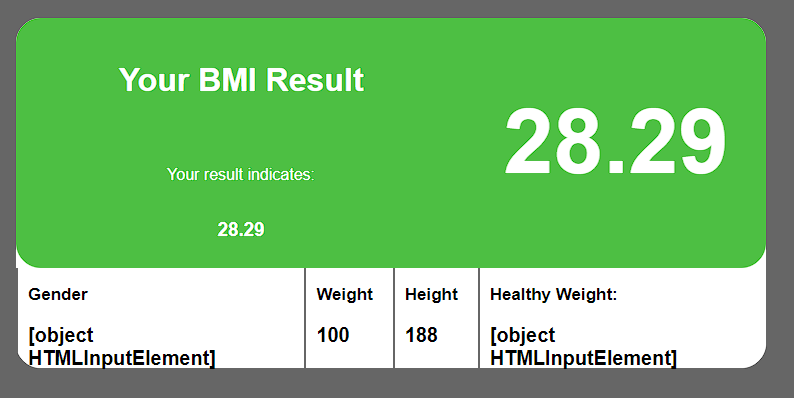
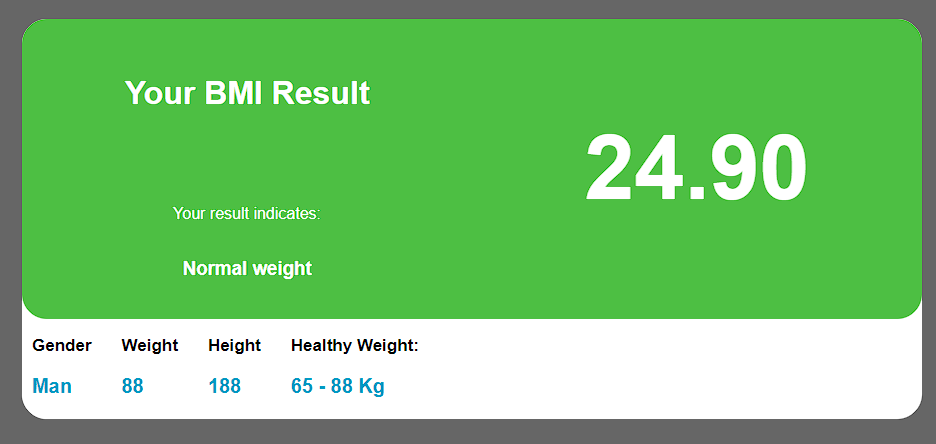
...

diff --git a/project.2 - BMI-calculator/calculatorBMI.js b/project.2 - BMI-calculator/calculatorBMI.js
@@ -52,7 +52,7 @@ function calcBMI(age, sex, weight, height) {
 
     console.log("------------------------------------------")
 
-    makeDiv(age, sex, weight, height, BMI)
+    makeDiv(age, sex, weight, height, BMI);
 
     console.log("------------------------------------------")
 }
@@ -74,38 +74,36 @@ function makeDiv(age, sex, weight, height, BMI) {
     var divTop2 = document.createElement("div");
     divTop2.id = "div_BMI_top_2";
 
-
     let result;
 
     switch (true) {
         case BMI < 16:
-            result = "wygłodzenie";
+            result = "Underweight";
             break;
         case BMI >= 16 && BMI <= 16.9:
-            result = "wychudzenie";
+            result = "Severely underweight";
             break;
         case BMI >= 17 && BMI <= 18.5:
-            result = "niedowaga";
+            result = "Underweight";
             break;
         case BMI >= 18.5 && BMI <= 24.9:
-            result = "waga prawidłowa";
+            result = "Normal weight";
             break;
         case BMI >= 25 && BMI <= 29.9:
-            result = "nadwaga";
+            result = "Overweight";
             break;
         case BMI >= 30 && BMI <= 34.9:
-            result = "otyłość I stopnia";
+            result = "Obesity Class I";
             break;
         case BMI >= 35 && BMI <= 39.9:
-            result = "otyłość II stopnia";
+            result = "Obesity Class II";
             break;
         case BMI >= 40:
-            result = "otyłość III stopnia";
+            result = "Obesity Class III";
             break;
         default:
-            result = "Nieprawidłowy zakres BMI";
+            result = "Invalid BMI range";
     }
-
 
     console.log(result);
 
@@ -130,19 +128,18 @@ function makeDiv(age, sex, weight, height, BMI) {
     } else {
         gender = "Man"
     }
-    divGender.innerHTML = `<p>Gender</p><h3>${gender}</h3>`;
+    divGender.innerHTML = `<p>Gender</p><h3 class="blue">${gender}</h3>`;
 
     var divWeight = document.createElement("div");
-    divWeight.className = "align_left";
-    divWeight.innerHTML = `<p>Weight</p><h3>${weight}</h3>`;
+    divWeight.className = "align_left_border";
+    divWeight.innerHTML = `<p>Weight</p><h3 class="blue">${weight}</h3>`;
 
     var divHeight = document.createElement("div");
-    divHeight.className = "align_left";
-    divHeight.innerHTML = `<p>Height</p><h3>${height}</h3>`;
+    divHeight.className = "align_left_border";
+    divHeight.innerHTML = `<p>Height</p><h3 class="blue">${height}</h3>`;
 
     var divHealthyWeight = document.createElement("div");
-    divHealthyWeight.className = "align_left";
-
+    divHealthyWeight.className = "align_left_border";
 
     var weight1 = 18.5 * (height * height);
     var fixedWeight1 = Math.floor(weight1).toString().slice(0, 2);
@@ -152,8 +149,7 @@ function makeDiv(age, sex, weight, height, BMI) {
     var fixedWeight2 = Math.floor(weight2).toString().slice(0, 2);
     console.log(fixedWeight2);
 
-
-    divHealthyWeight.innerHTML = `<p>Healthy Weight:</p><h3>${fixedWeight1} --- ${fixedWeight2} Kg</h3>`;
+    divHealthyWeight.innerHTML = `<p>Healthy Weight:</p><h3 class="blue">${fixedWeight1} - ${fixedWeight2} Kg</h3>`;
 
     divTopRight.appendChild(divTop1);
     divTopRight.appendChild(divTop2);

diff --git a/project.2 - BMI-calculator/style.css b/project.2 - BMI-calculator/style.css
@@ -116,15 +116,15 @@ input[type="radio"] {
 /* Made BMI div */
 
 #div_BMI {
-    width: 750px;
-    height: 350px;
+    width: 900px;
+    height: 400px;
     background-color: white;
     border-radius: 25px;
 }
 
 #div_BMI_top {
-    width: 750px;
-    height: 250px;
+    width: 900px;
+    height: 300px;
     background-color: #4dbf43;
     border-radius: 25px;
     color: white;
@@ -141,7 +141,7 @@ input[type="radio"] {
 }
 
 #div_BMI_top_left {
-    width: 300px;
+    width: 450px;
     height: 100%;
     float: left;
     display: block;
@@ -173,7 +173,6 @@ input[type="radio"] {
     clear: both;
     width: 100%;
     height: 100%;
-
     display: flex;
     align-items: center;
     justify-content: center;
@@ -190,11 +189,23 @@ input[type="radio"] {
     float: left;
 }
 
+.align_left_border {
+    padding-left: 10px;
+    padding-right: 20px;
+    font-size: 17px;
+    font-weight: 600;
+}
+
 .align_left {
     text-align: left;
     padding-left: 10px;
     padding-right: 20px;
     font-size: 17px;
     font-weight: 600;
-    border-left: 2px #666666 solid;
 }
+
+.blue{
+    color: #009cc5;
+}
+
+
